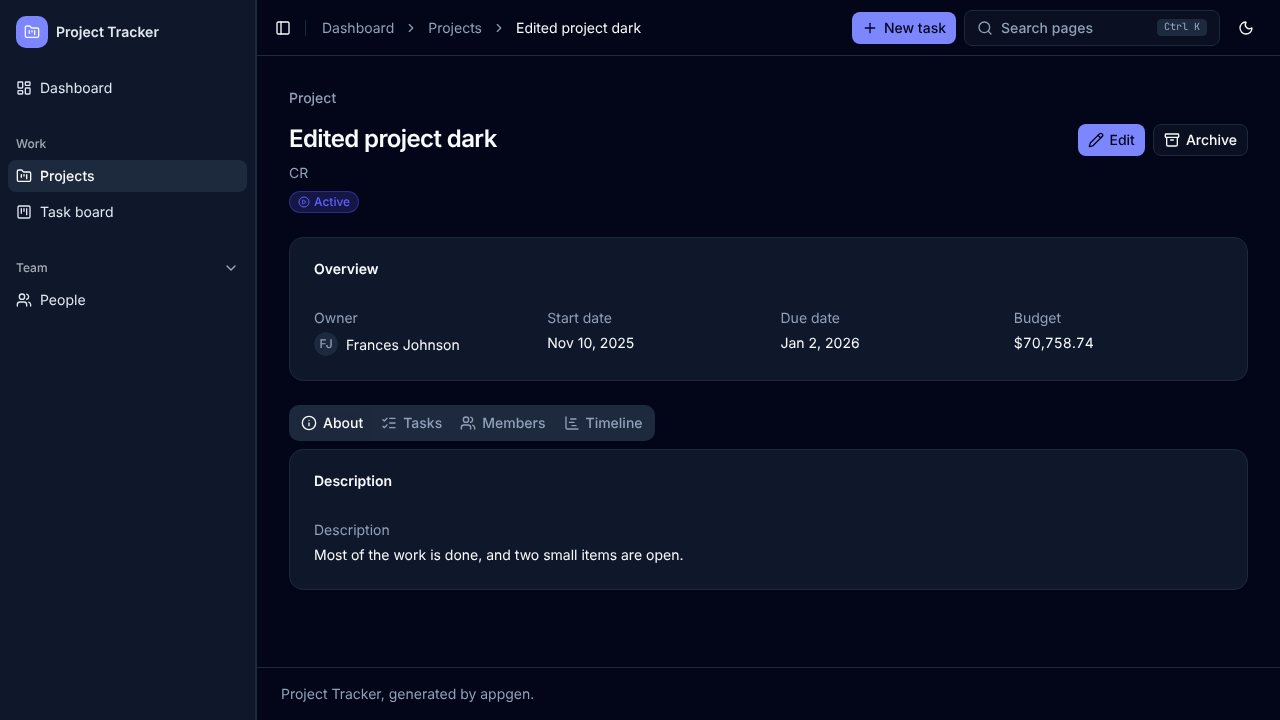
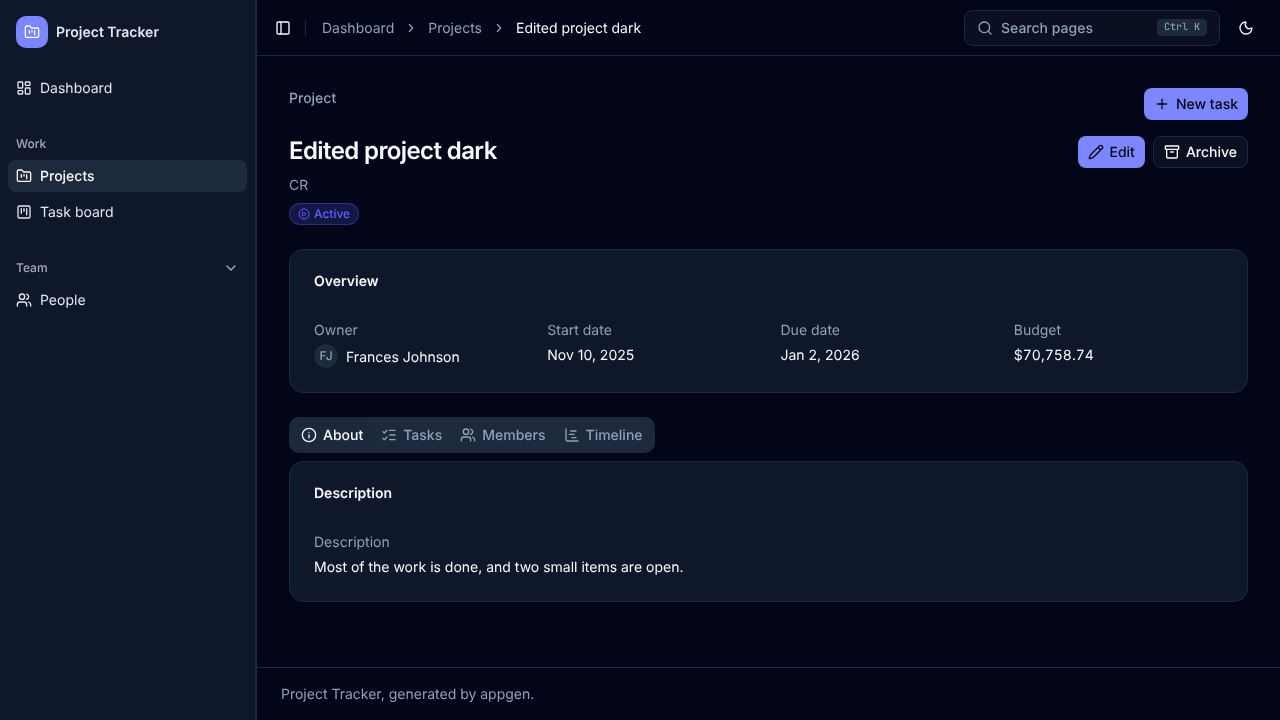
feat(dsl): let the app author choose the place of an action
A page action takes `placement`: `page` shows it in the page header,
and the top bar hides the same action on the page. `topbar` shows it
only in the top bar of the page, and `both` in the two places. The top
bar knows the current page, so it can show or hide an action for each
page. Without the key, the front ends keep the rule of #163. Only page
actions take the key, `topbar` and `both` need a layout with a top bar,
and the top bar cannot show an action that needs the record of the
page.

The project tracker shows "New task" in the header of the project
detail page, and the room booking example shows "New booking" in the
top bar of the bookings page.

Closes #179

diff --git a/src/appgen/bindings/shared/views.py b/src/appgen/bindings/shared/views.py
@@ -9,7 +9,7 @@ record (`row`) and the related records (`lookups`), for example
 """
 
 from collections.abc import Callable, Iterable
-from dataclasses import dataclass, field
+from dataclasses import dataclass, field, replace
 from typing import TYPE_CHECKING, Any, Literal, Protocol
 
 from appgen.bindings.shared.gaps import gap_spec
@@ -39,6 +39,7 @@ from appgen.dsl.ui.views import (
 )
 from appgen.gen.binding import Output
 from appgen.gen.naming import camel, pascal, words
+from appgen.gen.render import GenerationError
 
 if TYPE_CHECKING:
     from appgen.bindings.shared.dashboards import DashboardPlan
@@ -146,6 +147,10 @@ class ActionPlan:
     form: str | None = None
     """For a form action that opens a dialog or a sheet: the name of the form."""
     imports: tuple[str, ...] = ()
+    only_pages: tuple[str, ...] = ()
+    """For a top bar action: the pages that show it. Empty: all pages, except `except_pages`."""
+    except_pages: tuple[str, ...] = ()
+    """For a top bar action: the pages that do not show it (`placement: page`)."""
 
 
 @dataclass(frozen=True, slots=True)
@@ -305,7 +310,8 @@ class ActionBarPlan:
     """The path parameter with the ID of the record."""
     actions: list[ActionPlan] = field(default_factory=list[ActionPlan])
     hidden_actions: list[str] = field(default_factory=list[str])
-    """The IDs of the page actions that the top bar also has: the page hides them."""
+    """The IDs of the page actions that the page header does not show, and that the
+    top bar does not render for the page: the top bar has the same action."""
     record_actions: set[str] = field(default_factory=set[str])
     """The actions that need the record."""
     forms: list[FormRef] = field(default_factory=list[FormRef])
@@ -325,6 +331,11 @@ class ActionBarPlan:
     def needs(self, name: str) -> bool:
         """Return True if the code of the actions calls a helper, for example `pageHref`."""
         return f"{name}(" in self.code()
+
+    @property
+    def per_page(self) -> bool:
+        """Return True if an action of the top bar shows only on some pages."""
+        return any(a.only_pages or a.except_pages for a in self.actions)
 
 
 class UsesParts(Protocol):
@@ -396,9 +407,15 @@ class ViewContext:
                 param=params[-1] if entity else None,
             )
             items = list(page.actions.items())
-            hidden = self._topbar_duplicates([parts[1]], items)
-            plan.hidden_actions = [page.actions[n].id for n in hidden]
-            items = [(n, a) for n, a in items if n not in hidden]
+            unplaced = [(n, a) for n, a in items if a.placement is None]
+            hidden = self._topbar_duplicates([parts[1]], unplaced)
+            # The top bar renders an action with `placement: topbar` or `both`, unless
+            # the top bar already has the same action.
+            in_bar = set(self._topbar_duplicates([parts[1]], items))
+            hidden += [n for n, a in items if a.placement == "topbar" and n in in_bar]
+            plan.hidden_actions = [page.actions[n].id for n, _ in items if n in hidden]
+            items = [(n, a) for n, a in items if n not in hidden and a.placement != "topbar"]
+            extra: dict[str, tuple[tuple[str, ...], tuple[str, ...]]] = {}
         else:
             # `ui.layouts.<layout>.topbar`
             assert definition.ui is not None
@@ -409,13 +426,20 @@ class ViewContext:
                 component=f"{pascal(parts[2])}TopbarActions",
                 type="never",
             )
-            items = list(topbar.actions.items())
+            items, extra = self._topbar_items(parts[2], list(topbar.actions.items()))
         for name, action in items:
             entity = plan.entity or self._action_entity(action)
             if entity is None:
                 continue
             row = self._action(entity, name, action, "row" if plan.entity else "view")
+            if row is not None and name in extra:
+                row = replace(row, only_pages=extra[name][0], except_pages=extra[name][1])
             if row is None or "lookups." in (row.href or ""):
+                if name in extra and extra[name][0]:
+                    raise GenerationError(
+                        f"The action '{action.id}' needs the record of its page, so the top "
+                        "bar cannot show it. Use 'placement: page'."
+                    )
                 continue
             plan.actions.append(row)
             code = (row.href or "") + (row.run or "")
@@ -430,6 +454,39 @@ class ViewContext:
         plan.imports = sorted({line for a in plan.actions for line in a.imports})
         plan.icons = {a.action.icon for a in plan.actions if a.action.icon}
         return plan
+
+    def _topbar_items(
+        self, layout: str, own: list[tuple[str, Action]]
+    ) -> tuple[list[tuple[str, Action]], dict[str, tuple[tuple[str, ...], tuple[str, ...]]]]:
+        """Return the actions of a top bar, with the pages that show each one.
+
+        The top bar shows its own actions on each page, except on a page
+        with the same action and `placement: page`. A page action with
+        `placement: topbar` or `both` that the top bar does not have shows
+        in the top bar on its page only. Its name gets the page name as a
+        prefix, so that two pages can have actions with the same name.
+        """
+        from appgen.bindings.shared.ui import ui_plan
+
+        items = list(own)
+        extra: dict[str, tuple[tuple[str, ...], tuple[str, ...]]] = {}
+        keys = {name: _action_key(action) for name, action in own}
+        excluded: dict[str, list[str]] = {name: [] for name, _ in own}
+        for info in ui_plan(self.definition).pages_of(layout):
+            for name, action in info.page.actions.items():
+                key = _action_key(action)
+                same = [n for n, k in keys.items() if k is not None and k == key]
+                if action.placement == "page":
+                    for n in same:
+                        excluded[n].append(info.name)
+                elif action.placement in ("topbar", "both") and not same:
+                    bar_name = f"{info.name}_{name}"
+                    items.append((bar_name, action))
+                    extra[bar_name] = ((info.name,), ())
+        for name, pages in excluded.items():
+            if pages:
+                extra[name] = ((), tuple(pages))
+        return items, extra
 
     def _topbar_duplicates(
         self, pages: list[str], actions: Iterable[tuple[str, Action]]

diff --git a/tests/test_bindings_shared_views.py b/tests/test_bindings_shared_views.py
@@ -12,6 +12,7 @@ from appgen.bindings.shared.views import (
 )
 from appgen.dsl import load_definition, load_definition_text
 from appgen.dsl.ui.common import Grid, GridOverride
+from appgen.gen.render import GenerationError
 
 EXAMPLE = Path(__file__).parent.parent / "examples" / "project-tracker" / "app.yaml"
 VIEWS = Path(__file__).parent / "fixtures" / "react-views.yaml"
@@ -170,7 +171,9 @@ def test_a_chart_does_not_animate_without_motion() -> None:
     assert context.dashboard_plan("overview").motion == "none"
 
 
-def test_a_page_does_not_show_an_action_that_its_top_bar_has(example: ViewContext) -> None:
+def test_a_page_does_not_show_an_action_that_its_top_bar_has() -> None:
+    text = EXAMPLE.read_text().replace(", placement: page", "")
+    example = ViewContext(load_definition_text(text), forms=True)
     bar = example.action_bar("pages.project_detail")
     assert bar.hidden_actions == ["pages.project_detail.actions.new_task"]
     assert all(a.name != "new_task" for a in bar.actions)
@@ -188,3 +191,69 @@ def test_a_view_does_not_show_an_action_that_the_top_bar_of_its_pages_has(
     assert board.hidden_actions == ["ui.views.task_board.actions.new_task"]
     assert board.actions == []
     assert [a.name for a in board.row_actions] == ["open", "edit"]
+
+
+def test_an_action_with_placement_page_shows_on_the_page_only(example: ViewContext) -> None:
+    bar = example.action_bar("pages.project_detail")
+    assert (bar.hidden_actions, [a.name for a in bar.actions]) == ([], ["new_task"])
+    # The top bar hides its own action on the page.
+    [new_task] = example.action_bar("ui.layouts.app_shell.topbar").actions
+    assert (new_task.only_pages, new_task.except_pages) == ((), ("project_detail",))
+
+
+PLACEMENT = """\
+version: 0
+app: { name: shop, title: Shop }
+entities:
+  Item:
+    crud: true
+    display_field: name
+    fields:
+      name: { type: string, required: true }
+pages:
+  items:
+    path: /items
+    title: Items
+    entity: Item
+    actions:
+      new_item: { kind: form, form: new_item, placement: topbar }
+      export: { kind: custom, label: Export, placement: both }
+  item:
+    path: "/items/{id}"
+    title: Item
+    entity: Item
+    actions:
+      edit: { kind: form, form: edit_item }
+ui:
+  layouts:
+    shell:
+      topbar: { breadcrumbs: true }
+  forms:
+    new_item: { entity: Item, operation: create_item, fields: { name: {} } }
+    edit_item: { entity: Item, operation: update_item, fields: { name: {} } }
+  defaults: { layout: shell }
+"""
+
+
+def test_an_action_with_placement_topbar_shows_in_the_top_bar_of_its_page() -> None:
+    context = ViewContext(load_definition_text(PLACEMENT), forms=True)
+
+    page = context.action_bar("pages.items")
+    topbar = context.action_bar("ui.layouts.shell.topbar")
+
+    # `both` shows in the page header and in the top bar.
+    assert [a.name for a in page.actions] == ["export"]
+    assert page.hidden_actions == []
+    assert [(a.name, a.element_id, a.only_pages) for a in topbar.actions] == [
+        ("items_new_item", "pages.items.actions.new_item", ("items",)),
+        ("items_export", "pages.items.actions.export", ("items",)),
+    ]
+    assert topbar.per_page
+
+
+def test_the_top_bar_cannot_show_an_action_that_needs_the_record() -> None:
+    text = PLACEMENT.replace("form: edit_item }", "form: edit_item, placement: topbar }")
+    context = ViewContext(load_definition_text(text), forms=True)
+
+    with pytest.raises(GenerationError, match="needs the record of its page"):
+        context.action_bar("ui.layouts.shell.topbar")

diff --git a/src/appgen/dsl/ui/checks.py b/src/appgen/dsl/ui/checks.py
@@ -12,6 +12,7 @@ from appgen.dsl.diagnostics import Diagnostic, Location
 from appgen.dsl.element import Element
 from appgen.dsl.model import AppDefinition, Field, Page
 from appgen.dsl.ui.common import (
+    ActionBase,
     FormAction,
     Grid,
     NavigateAction,
@@ -658,6 +659,8 @@ def check_ui_references(definition: AppDefinition) -> Iterator[Diagnostic]:
             continue
         yield from _check_token_refs(tokens, element)
         yield from _check_page_refs(definition, element)
+        if isinstance(element, ActionBase) and element.placement is not None:
+            yield from _check_placement(definition, element)
         match element:
             case Page():
                 if element.layout is not None and element.layout not in layouts:
@@ -697,6 +700,43 @@ def check_ui_references(definition: AppDefinition) -> Iterator[Diagnostic]:
                 yield from _check_board_move(definition, element)
             case _:
                 pass
+
+
+def _check_placement(definition: AppDefinition, action: ActionBase) -> Iterator[Diagnostic]:
+    parts = action.id.split(".")
+    if len(parts) != 4 or parts[0] != "pages" or parts[2] != "actions":
+        yield _error(
+            "invalid-option",
+            "Only a page action has 'placement'.",
+            action,
+            at="placement",
+            hint="Remove 'placement', or move the action to 'pages.<page>.actions'.",
+        )
+        return
+    if action.placement == "page":
+        return
+    ui = definition.ui
+    page = definition.pages[parts[1]]
+    layout_name = page.layout or (ui.defaults.layout if ui and ui.defaults else None)
+    layout = ui.layouts.get(layout_name) if ui and layout_name else None
+    if layout is not None and layout.topbar is None:
+        yield _error(
+            "invalid-option",
+            f"The action has the placement '{action.placement}', but the layout "
+            f"'{layout_name}' of the page '{parts[1]}' has no top bar.",
+            action,
+            at="placement",
+            hint="Use 'placement: page', or give the layout a top bar.",
+        )
+    elif layout is None and layout_name is None:
+        yield _error(
+            "invalid-option",
+            f"The action has the placement '{action.placement}', but the page "
+            f"'{parts[1]}' has no layout, so it has no top bar.",
+            action,
+            at="placement",
+            hint="Use 'placement: page', or give the page a layout with a top bar.",
+        )
 
 
 def _has_ui_keys(page: Page) -> bool:

diff --git a/tests/test_dsl_validator.py b/tests/test_dsl_validator.py
@@ -312,3 +312,27 @@ def test_the_responsive_hint_of_a_board_needs_a_breakpoint_token() -> None:
     )
 
     assert codes(BASE + board) == [("unknown-reference", "ui.views.board.responsive")]
+
+
+def test_only_a_page_action_has_a_placement_and_the_top_bar_must_exist() -> None:
+    page = "tasks: { path: /tasks, title: Tasks, entity: Task }"
+    action = "{ kind: custom, label: Export, placement: topbar }"
+    with_action = page.replace(" }", f", actions: {{ export: {action} }} }}")
+    text = BASE.replace(page, with_action)
+    shell = "ui:\n  layouts:\n    shell:\n      sidebar: {}\n  defaults: { layout: shell }\n"
+
+    assert codes(text) == [("invalid-option", "pages.tasks.actions.export")]
+    assert codes(text + shell) == [("invalid-option", "pages.tasks.actions.export")]
+    assert codes(text + shell.replace("sidebar: {}", "topbar: {}")) == []
+    assert codes(text.replace("placement: topbar", "placement: page")) == []
+
+    view = (
+        "ui:\n  views:\n    list:\n      kind: table\n      entity: Task\n"
+        "      columns: { title: {} }\n"
+        f"      actions:\n        export: {action}\n"
+    )
+    [diagnostic] = check(BASE + view)
+    assert (diagnostic.code, diagnostic.message) == (
+        "invalid-option",
+        "Only a page action has 'placement'.",
+    )

diff --git a/src/appgen/dsl/ui/common.py b/src/appgen/dsl/ui/common.py
@@ -91,6 +91,10 @@ class OnSuccess(Element):
     """A page to open."""
 
 
+type Placement = Literal["page", "topbar", "both"]
+"""Where a page action shows: in the page header, in the top bar, or in both."""
+
+
 class ActionBase(Element):
     """The keys of all actions."""
 
@@ -98,6 +102,9 @@ class ActionBase(Element):
     icon: IconName | None = None
     variant: Variant = "default"
     confirm: Confirm | None = None
+    placement: Placement | None = None
+    """Only for a page action: where it shows. Without it, the page header shows it,
+    unless the top bar of the page has the same action."""
 
 
 class NavigateAction(ActionBase):

diff --git a/docs/dsl.md b/docs/dsl.md
@@ -516,6 +516,26 @@ operation, or page), the page header and the view of the page do not
 show it. A trace in the code of the page or the view still refers to
 the hidden action.
 
+A page action takes `placement` to choose where it shows:
+
+| Placement | The action shows                                                    |
+| --------- | ------------------------------------------------------------------- |
+| `page`    | In the page header. The top bar does not show the same action on the page. |
+| `topbar`  | In the top bar of the layout of the page, on the page only. The page header does not show it. |
+| `both`    | In the page header and in the top bar, on the page only.           |
+
+Without `placement`, the rule above applies. `topbar` and `both` need a
+layout with a top bar, and an action that does not need the record of
+the page (the top bar has no record). Only page actions take
+`placement`.
+
+```yaml
+pages:
+  project_detail:
+    actions:
+      new_task: { kind: form, form: new_task, label: New task, placement: page }
+```
+
 ### views
 
 A view shows the records of one entity. Each view has `kind`, `entity`,

diff --git a/docs/adr/0003-ui-dsl.md b/docs/adr/0003-ui-dsl.md
@@ -633,6 +633,7 @@ defines the mechanism.
 | Responsive behavior beyond `hide_below`, the grid overrides, the layout overrides, and the board `responsive` hint | Hand-written code, or the shadcn component sources. |
 | Pixel-level layout inside a component               | The shadcn component sources, which the app developer can change. |
 | A page layout beyond the order and the columns of its regions | A page with `content: { custom: true }`. |
+| A place of an action other than the page header and the top bar (`placement`) | A custom action, or hand-written code. |
 | Accessibility beyond the shadcn components          | Hand-written code.                            |
 | Authentication, roles, and translations of the UI   | Later sections (ADR 0002).                    |
 
